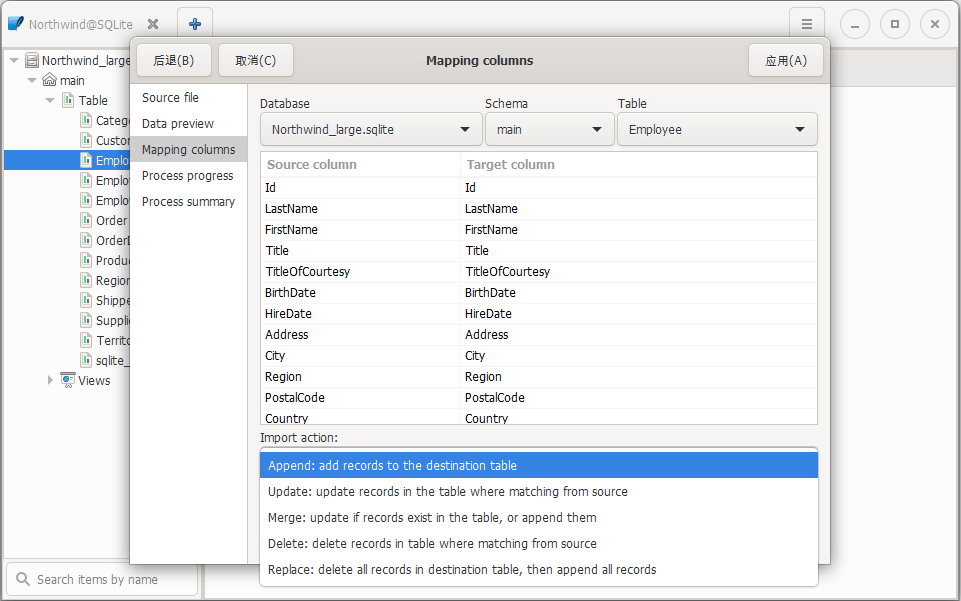
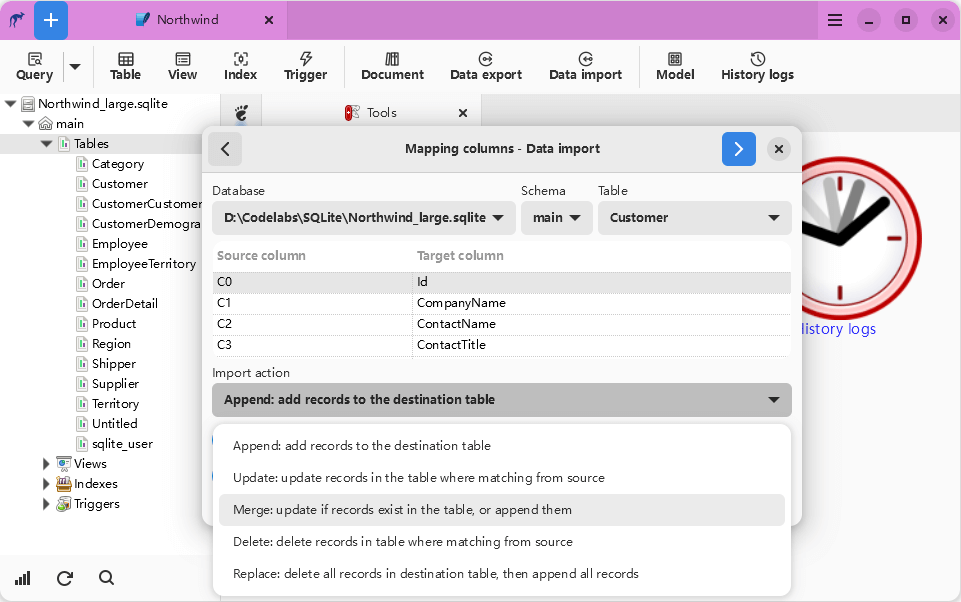
Update docs for 1.92.1

diff --git a/.vuepress/markdown/versions.js b/.vuepress/markdown/versions.js
@@ -1,5 +1,6 @@
 module.exports = [
     '',
+    'v1.92.1.220228',
     'v1.91.1.220128',
     'v1.90.1.211231',
     'v1.10.1.210731',

diff --git a/zh/download/v1.92.1.220228.md b/zh/download/v1.92.1.220228.md
@@ -1,0 +1,48 @@
+---
+title: 袋鼠数据库工具 v1.92.1 (Dev)
+lang: zh-CN
+---
+
+# 袋鼠数据库工具 v1.92.1 (Dev)
+这是一个技术预览版，系统稳定性已获得全面提升，可供体验和了解新特性使用，请谨慎生产环境使用。
+
+## 新特性或修复的缺陷列表
+1. 增加对象浏览器视图(表格化 + 图表化)
+2. 对象浏览器添加搜索和排序支持
+3. SQLite: 加载对象数据
+4. MariaDB: 加载对象数据
+5. MySQL: 加载对象数据
+6. PostgreSQL: 加载对象数据
+7. 对象浏览器添加对象上下文菜单
+8. 重构工作空间工具栏
+9. 更新数据库对象图标
+10. 更新中文语言支持
+
+
+<div>
+    <script2 type="text/javascript" async="true" src="https://pagead2.googlesyndication.com/pagead/js/adsbygoogle.js" />
+    <ins class="adsbygoogle"
+        style="display:block; text-align:center;"
+        data-ad-layout="in-article"
+        data-ad-format="fluid"
+        data-ad-client="ca-pub-3975819313740938"
+        data-ad-slot="6760827895"></ins>
+    <script2 type="text/javascript">
+        (adsbygoogle = window.adsbygoogle || []).push({});
+    </script2>
+</div>
+
+## 安装程序和便携安装包
+强烈建议您使用 `sha256sum` 工具来校验您从网络上下载的包文件的 SHA256 哈希值是否与官方一致，确保您的包文件100%正确无篡改。
+| 安装包          | Windows         | Linux           | MacOS           | iOS             | Android         |
+|-----------------|-----------------|-----------------|-----------------|-----------------|-----------------|
+| 安装程序<br/>(Injdk.cn) | [Windows](https://d4.injdk.cn/dbkangaroo/v1.92.1.220228/kangaroo-1.92.1.220228-AMD64.exe) | [Arch](https://d4.injdk.cn/dbkangaroo/v1.92.1.220228/kangaroo-1.92.1.220228-1-x86_64.pkg.tar.zst) | [MacOS] |
+| 安装包<br/>(Injdk.cn)  | [Windows](https://d4.injdk.cn/dbkangaroo/v1.92.1.220228/kangaroo-1.92.1.220228-AMD64.7z) | [Arch](https://d4.injdk.cn/dbkangaroo/v1.92.1.220228/kangaroo-1.92.1.220228-arch.tar.gz) | [MacOS] |
+| 哈希及签名<br/>(Injdk.cn) | [SHA256SUM](https://d4.injdk.cn/dbkangaroo/v1.92.1.220228/kangaroo-1.92.1.220228.sha256sum) |||
+|-----------------|-----------------|-----------------|-----------------|
+| 安装程序<br/>(Github.com) | [Windows](https://github.com/dbkangaroo/kangaroo/releases/download/v1.92.1.220228/kangaroo-1.92.1.220228-AMD64.exe) | [Arch](https://github.com/dbkangaroo/kangaroo/releases/download/v1.92.1.220228/kangaroo-1.92.1.220228-1-x86_64.pkg.tar.zst) | [MacOS] |
+| 安装包<br/>(Github.com)  | [Windows](https://github.com/dbkangaroo/kangaroo/releases/download/v1.92.1.220228/kangaroo-1.92.1.220228-AMD64.7z) | [Arch](https://github.com/dbkangaroo/kangaroo/releases/download/v1.92.1.220228/kangaroo-1.92.1.220228-arch.tar.gz) | [MacOS] |
+| 哈希及签名<br/>(Github.com) | [SHA256SUM](https://github.com/dbkangaroo/kangaroo/releases/download/v1.92.1.220228/kangaroo-1.92.1.220228.sha256sum) | | |
+
+## 分享给朋友们
+<social-share :networks="['wechat', 'qq', 'weibo', 'douban', 'facebook', 'twitter', 'telegram', 'line', 'skype', 'linkedin']" />

diff --git a/en/download/v1.92.1.220228.md b/en/download/v1.92.1.220228.md
@@ -1,0 +1,48 @@
+---
+title: Kangaroo v1.92.1 (Dev)
+lang: en-US
+---
+
+# Kangaroo v1.92.1 (Dev)
+This is a technical preview version, please don't use it in the production environment.
+
+## New features & bug-fixes
+1. Add explorer view(Table + Iconic)
+2. Add search and sort support
+3. SQLite: load objects for exporer
+4. MariaDB: load objects for exporer
+5. MySQL: load objects for exporer
+6. PostgreSQL: load objects for exporer
+7. Add context menu for objects
+8. Refactor workspace toolbar
+9. Update database object icon
+10. Update Chinese translation
+
+<div>
+    <script2 type="text/javascript" async="true" src="https://pagead2.googlesyndication.com/pagead/js/adsbygoogle.js" />
+    <ins class="adsbygoogle"
+        style="display:block; text-align:center;"
+        data-ad-layout="in-article"
+        data-ad-format="fluid"
+        data-ad-client="ca-pub-3975819313740938"
+        data-ad-slot="6760827895"></ins>
+    <script2 type="text/javascript">
+        (adsbygoogle = window.adsbygoogle || []).push({});
+    </script2>
+</div>
+
+## Installer & Portable packages
+Recommend to use tool `sha256sum` to verify the sums and signature of your packages that download from the internet, make sure they are safe and 100% correct.
+| Packages        | Windows         | Linux           | MacOS           | iOS             | Android         |
+|-----------------|-----------------|-----------------|-----------------|-----------------|-----------------|
+| Installer<br/>(Github.com) | [Windows](https://github.com/dbkangaroo/kangaroo/releases/download/v1.92.1.220228/kangaroo-1.92.1.220228-AMD64.exe) | [Arch](https://github.com/dbkangaroo/kangaroo/releases/download/v1.92.1.220228/kangaroo-1.92.1.220228-1-x86_64.pkg.tar.zst) | [MacOS] |
+| Portable<br/>(Github.com) | [Windows](https://github.com/dbkangaroo/kangaroo/releases/download/v1.92.1.220228/kangaroo-1.92.1.220228-AMD64.7z) | [Arch](https://github.com/dbkangaroo/kangaroo/releases/download/v1.92.1.220228/kangaroo-1.92.1.220228-arch.tar.gz) | [MacOS] |
+| SHA256SUM<br/>(Github.com) | [SHA256SUM](https://github.com/dbkangaroo/kangaroo/releases/download/v1.92.1.220228/kangaroo-1.92.1.220228.sha256sum) | | |
+|-----------------|-----------------|-----------------|-----------------|
+| Installer<br/>(Injdk.cn) | [Windows](https://d4.injdk.cn/dbkangaroo/v1.92.1.220228/kangaroo-1.92.1.220228-AMD64.exe) | [Arch](https://d4.injdk.cn/dbkangaroo/v1.92.1.220228/kangaroo-1.92.1.220228-1-x86_64.pkg.tar.zst) | [MacOS] |
+| Portable<br/>(Injdk.cn)  | [Windows](https://d4.injdk.cn/dbkangaroo/v1.92.1.220228/kangaroo-1.92.1.220228-AMD64.7z) | [Arch](https://d4.injdk.cn/dbkangaroo/v1.92.1.220228/kangaroo-1.92.1.220228-arch.tar.gz) | [MacOS] |
+| SHA256SUM<br/>(Injdk.cn) | [SHA256SUM](https://d4.injdk.cn/dbkangaroo/v1.92.1.220228/kangaroo-1.92.1.220228.sha256sum) | | |
+
+
+## Share with friends
+<social-share :networks="['facebook', 'twitter', 'whatsapp', 'telegram', 'linkedin', 'reddit', 'line', 'skype', 'pinterest']" />

diff --git a/en/download/README.md b/en/download/README.md
@@ -13,6 +13,7 @@ The latest version is available for downloading only.
 ## Kangaroo versions
 | Release date | Windows           | Linux           | MacOS           | iOS             | Android         |
 |--------------|-------------------|-----------------|-----------------|-----------------|-----------------|
+| 2022-02-28   | [v1.92.1 (Dev)](./v1.92.1.220228) | [v1.92.1 (Dev)](./v1.92.1.220228) | [v1.92.1 (Dev)](./v1.92.1.220228) |
 | 2022-01-28   | [v1.91.1 (Dev)](./v1.91.1.220128) | [v1.91.1 (Dev)](./v1.91.1.220128) | [v1.91.1 (Dev)](./v1.91.1.220128) |
 | 2021-12-31   | [v1.90.1 (Dev)](./v1.90.1.211231) | [v1.90.1 (Dev)](./v1.90.1.211231) | [v1.90.1 (Dev)](./v1.90.1.211231) |
 | 2021-07-31   | [v1.10.1 (Beta)](./v1.10.1.210731) | [v1.10.1 (Beta)](./v1.10.1.210731) | [v1.10.1 (Beta)](./v1.10.1.210731) |

diff --git a/zh/download/README.md b/zh/download/README.md
@@ -15,6 +15,7 @@ lang: zh-CN
 
 | 发布日期      | Windows           | Linux           | MacOS           | iOS             | Android         |
 |--------------|-------------------|-----------------|-----------------|-----------------|-----------------|
+| 2022-02-28   | [v1.92.1 (Dev)](./v1.92.1.220228) | [v1.92.1 (Dev)](./v1.92.1.220228) | [v1.92.1 (Dev)](./v1.92.1.220228) |
 | 2022-01-28   | [v1.91.1 (Dev)](./v1.91.1.220128) | [v1.91.1 (Dev)](./v1.91.1.220128) | [v1.91.1 (Dev)](./v1.91.1.220128) |
 | 2021-12-31   | [v1.90.1 (Dev)](./v1.90.1.211231) | [v1.90.1 (Dev)](./v1.90.1.211231) | [v1.90.1 (Dev)](./v1.90.1.211231) |
 | 2021-07-31   | [v1.10.1 (Beta)](./v1.10.1.210731) | [v1.10.1 (Beta)](./v1.10.1.210731) | [v1.10.1 (Beta)](./v1.10.1.210731) |

diff --git a/en/README.md b/en/README.md
@@ -55,7 +55,7 @@ Database support capability level: __Planned__ / __Partial__ / __Full(:100:)__
 
 ## Screenshots
 ![Start page of connection](./images/kangaroo-start.png)
-![Tools page of connection](./images/kangaroo-tools.png)
+![Tools page of connection](./images/kangaroo-workspace.png)
 ![Kangaroo grid view in table with custom columns](./images/kangaroo-grid.png)
 
 <div>
@@ -87,7 +87,6 @@ Database support capability level: __Planned__ / __Partial__ / __Full(:100:)__
 </div>
 
 ![Kangaroo schema designer form](./images/kangaroo-designer.png)
-![Kangaroo schema designer form with preview](./images/kangaroo-designer2.png)
 ![Kangaroo view designer](./images/kangaroo-view.png)
 
 <div>

diff --git a/zh/document/faq.md b/zh/document/faq.md
@@ -7,7 +7,7 @@ lang: zh-CN
 
 ## 关于许可证
 ### 袋鼠数据库工具是否免费?
-是的，根据袋鼠数据库工具当前的许可证，个人和商业可以免费试用. 详情请阅读[产品许可证](license.md) 获得更多明细.
+是的，根据袋鼠数据库工具当前的许可证，个人和商业可以免费试用. 详情请阅读[产品许可证](../license/service-agreement.md) 获得更多明细.
 
 ### 袋鼠数据库工具是否开放源码?
 目前未开放源码, 开放源码始终是工具发展过程中的一个候选项。

diff --git a/en/document/faq.md b/en/document/faq.md
@@ -7,7 +7,7 @@ lang: en-US
 
 ## License
 ### Is Kangaroo free?
-Yes, Kangaroo is free for private or commercial use. See the [product license](license.md) for details.
+Yes, Kangaroo is free for private or commercial use. See the [product license](../license/service-agreement.md) for details.
 
 ### Is Kangaroo open source?
 Not yet now, open source is an option on the desktop.
